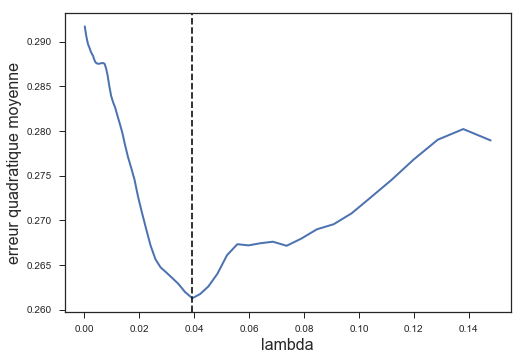
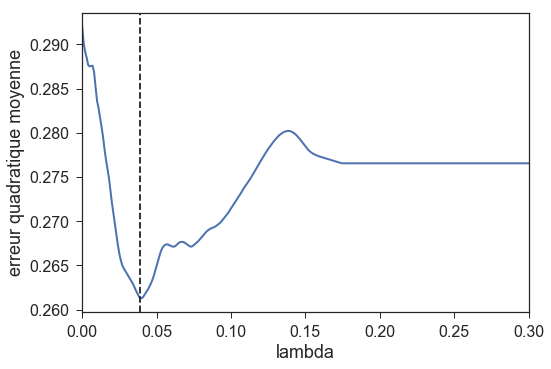
figures updated and proofreading completed

diff --git a/chapter_3.tex b/chapter_3.tex
@@ -11,7 +11,7 @@ et la durée du traitement).
 Afin de mieux identifier l'importance de ces facteurs sur l'efficacité du \gls{nfb}, une nouvelle approche a été implémentée : l'analyse systématique des biais 
 (\gls{saob} en anglais). Dans cette analyse, l'efficacité du traitement est considérée comme la variable dépendante expliquée par des variables indépendantes 
 qui sont ici les facteurs méthodologiques et techniques. Le but de cette analyse est donc de déterminer les paramètres qui ont une influence sur la performance du 
-\gls{nfb} afin de mieux les prendre en compte dans l'implémentation d'études cliniques évaluant l'efficacité. 
+\gls{nfb} afin de mieux les prendre en compte dans l'implémentation d'études cliniques évaluant l'efficacité de ce traitement. 
 \clearpage
 
 \section{Extraction et pré-traitement des facteurs}
@@ -41,7 +41,7 @@ Ces paramètres ne sont pas spécifiques de l'entrainenement par \gls{nfb} mais 
 En effet, \citet{Ros2019} appellent notamment à employer un groupe contrôle et à avoir recours à des évaluateurs aveugles afin d'améliorer la qualité des études.
 
 Le fait qu'une étude soit validée par un \gls{irb} rend compte de la qualité de l'implémentation méthodologique : les études qui en sont dépourvues sont
-condidérées d'une qualité moindre et donc plus sujettes aux divers biais d'implémentation.  
+condidérées comme étant d'une qualité moindre et donc plus sujettes aux divers biais d'implémentation.  
 \item \emph{la population :} 
     \begin{itemize}
     \item la prise de psychostimulants durant le traitement par \gls{nfb}, 
@@ -50,7 +50,7 @@ condidérées d'une qualité moindre et donc plus sujettes aux divers biais d'im
 		\item le degré d'engagement dans l'entrainement par \gls{nfb} (observance thérapeutique et ressenti vis à vis du traitement).
     \end{itemize}
 Certaines de ces caractéristiques ont déjà été indivividuellement étudiées, en particulier l'impact de la prise de psychostimulants durant l'entrainement par \gls{nfb} dans
-\citet{Cortese2016} et ses mises à jour (\citep{Bussalb2019clinical} et celle en \ref{selection_studies}) et également discutées par \citet{VanDoren2017}.
+\citet{Cortese2016} et ses mises à jour (\citep{Bussalb2019clinical} et celle présentée en \ref{selection_studies}) et également discutées par \citet{VanDoren2017}.
 \item \emph{l'implémentation du \gls{nfb} :} 
     \begin{itemize}
     \item le protocole utilisé (\gls{scp}, \gls{smr}, l'augmentation du rythme theta, l'augmentation du rythme beta dans les aires centrale ou frontale 
@@ -104,8 +104,9 @@ lequel est calculé le \textit{feedback} \citep{Enriquez2017, Rogala2016}.
 artefacts oculaires (\gls{eog}),
     \item le rejet en temps réel d'artefacts génériques détectés grâce à leur large amplitude. 
     \end{itemize}
-Le signal \gls{eeg} est l'élement central du \gls{nfb} et peut être très facilement contaminé par des artefacts \citep{Chavez2018}, ainsi l'effet de la correction ou du rejet 
-d'atefacts est à étudier. 
+Le signal \gls{eeg} est l'élement central du \gls{nfb} et peut être très facilement contaminé par des artefacts comme expliqué en \ref{steps_NFB_taining} \citep{Chavez2018}, 
+ainsi l'effet de la correction ou du rejet 
+d'artefacts est à étudier. 
 \end{itemize}
 
 Afin d'éviter tout biais d'analyse, le nom des facteurs a été caché durant toute l'analyse : il n'a été révélé qu'à la phase d'interprétation du modèle, lorsque ce dernier a été considéré 
@@ -116,7 +117,7 @@ comme valide notamment au niveau de la normalisation des variables et de la vali
 Les auteurs des études incluses dans la \gls{saob} ne précisent pas systématiquement toutes les valeurs des facteurs, ce qui conduit à des observations manquantes. 
 Afin que les paramètres pour lesquels peu d'observations sont disponibles ne faussent l'analyse, il est apparu raisonnable de considérer qu'au-delà de 20\%
 d'observations manquantes ce paramètre est exclu. Les observations manquantes dans les facteurs comportant des valeurs numériques sont 
-imputées et remplacées par -1 pour le \gls{dt} de régression et par la moyenne des valeurs du facteur pour la \gls{wls} et le \gls{lasso} décrits en \ref{saob_method}. 
+imputées et remplacées par -1 pour le \glsfirst{dt} de régression et par la moyenne des valeurs du facteur pour la \glsfirst{wls} et le \glsfirst{lasso}, méthodes décrites en \ref{saob_method}. 
 
 Par ailleurs, comme cette analyse tire avantage de l'hétérogénéité des études, si un facteur a plus de 80\% d'observations identiques, 
 celui-ci est également rejeté. 
@@ -144,7 +145,8 @@ d'avoir un impact sur l'efficacité du \gls{nfb} appliqué aux enfants \gls{tdah
 \subsection{Calcul de la taille d'effet intra-groupe} \label{es_within}
 
 L'efficacité du traitement est quantifiée par l'\gls{es}-intra-groupe. Celui-ci est calculé à partir des moyennes et écart-types des scores 
-cliniques totaux donnés par les parents et les enseignants (considérés comme \gls{pblind} \citep{Sonuga-Barke2013, Micoulaud2014, Cortese2016}). De plus, 
+cliniques totaux donnés par les parents et les enseignants (considérés comme \gls{pblind} \citep{Sonuga-Barke2013, Micoulaud2014, Cortese2016}) aux enfants inclus dans 
+l'étude à pré et à post-test. De plus, 
 lorsqu'une étude fournit des résultats pour plus d'une échelle clinique, l'\gls{es}-intra-groupe est calculé pour chaque échelle :
 \begin{equation}
 \label{eq:factors_effect_size_within_subject}
@@ -189,15 +191,15 @@ d'avoir recours à plus de méthodes mais étant donné l'aspect novateur de cet
 \subsubsection{La régression linéaire multiple et pondérée} \label{wls_part}
 La régression linéaire a pour but d'estimer les coefficients de régression qui lient linéairement les facteurs aux \gls{es}-intra-groupe \citep{Montgomery2012}. Ici, nous préférerons 
 utiliser une régression linéaire pondérée (en anglais, \glsfirst{wls}) afin d'être sensible au fait que toutes les études ne contribuent pas de la même manière. 
-En effet, cela permet de prendre en compte que, d'une part, pour certaines études, plusieurs échelles cliniques sont disponibles, et d'autre part, les études ont des 
-tailles d'échantillon très différente
+En effet, cela permet de prendre en compte que, d'une part, pour certaines études, plusieurs échelles cliniques sont disponibles, et que, d'autre part, les études ont des 
+tailles d'échantillon très différentes.
 
 Les coefficients $\hat{\beta}_{j}$, $0 \leq j \leq p$, sont obtenus en minimisant la somme pondérée des erreurs quadratiques :
 \begin{equation}
 \label{eq:factors_wls-minimization}
 \hat{\beta} = \argmin_\beta \sum_{i=1}^{n} w_{i} \Big(y_i - \beta_0 - \sum_{j=1}^{p}\beta_{j}x_{ij}\Big)^2,
 \end{equation} 
-avec $x_{ij}$ la valeur de l'observation $i$, $1 \leq i \leq n$ sur la variable indépendante $j$, $1 \leq j \leq p$,
+avec $x_{ij}$ la valeur de l'observation $i$, $1 \leq i \leq n$ sur la variable indépendante $j$, $1 \leq j \leq p$, $\beta_0$ l'ordonnée à l'origine (l'\textit{intercept} en anglais), 
 $\beta_j$ est un coefficient de régression et $y_i$ la variable dépendante.
 Le poids $w_{i}$ associé à chaque observation $i$ est défini comme suit : 
 \begin{equation}
@@ -223,7 +225,7 @@ Sous forme matricielle, la \gls{wls} se traduit ainsi :
 \label{eq:factors_model_WLS}
 \textbf{W}y = \textbf{WX}\beta + \epsilon.
 \end{equation}
-$\textbf{X}$ est une matrice inversible $(n \times q)$ et représente $n$ observations sur chaque $p$ variable indépendante et l'ordonnée à l'origine (l'\textit{intercept} en anglais) 
+$\textbf{X}$ est une matrice inversible $(n \times q)$ et représente $n$ observations sur chaque $p$ variable indépendante et l'\textit{intercept}  
 ($q = p + 1$), 
 $\beta$ est un vecteur $(q \times 1)$ des coefficients de régression associés et l'\textit{intercept}, $\textbf{W}$ est une matrice diagonale $(n \times n)$  
 des poids $w_{i}$, $y$ est un vecteur $(n \times 1)$ des variables dépendantes et $\epsilon$ est un vecteur $(n \times 1)$ d'erreurs.
@@ -304,7 +306,7 @@ $g_{2}$ la variable aléatoire de l'excès de Kurtosis, et $Z_{1}$ et $Z_{2}$ de
 les distributions de $g_{1}$ et $g_{2}$ normales.
 
 Si toutes ces hypothèses sont satisfaites, alors les résultats de la \gls{wls} peuvent être interprétés. A l'aide d'un t-test, on détermine  
-parmi les coefficients $\beta_{j}$ où $1<j<p$, ceux qui sont significativement différents de 0 (avec un seuil de signifiance de 5\%) : 
+parmi les coefficients $\beta_{j}$ où $0 \leq j \leq p$, ceux qui sont significativement différents de 0 (avec un seuil de signifiance de 5\%) : 
 pour ces coefficients, le facteur qui leur est associé est supposé avoir une influence sur l'efficacité du \gls{nfb}. Par ailleurs, 
 le signe du coefficient indique si cette influence est positive ou négative. 
 
@@ -327,12 +329,12 @@ Une régression linéaire ordinaire (\gls{ols} en anglais) est aussi mise en pla
 
 \subsubsection{La régression linéaire avec régularisation parcimonieuse $\ell_1$}
 
-La deuxième méthode appliquée lors de la \gls{saob} est le \gls{lasso} qui intègre la sélection de variables dans le modèle linéaire grâce 
-grâce à un a priori de parcimonie des variables/coefficients, obtenue via une régularisation par la norme $\ell_1$ \citep{Tibshirani1996}.
+La deuxième méthode appliquée lors de la \gls{saob} est le \glsfirst{lasso} qui intègre la sélection de variables dans le modèle linéaire grâce 
+à un a priori de parcimonie des variables/coefficients, obtenue via une régularisation par la norme $\ell_1$ \citep{Tibshirani1996}.
 
 La régression régularisée par la norme $\ell_1$ est préférable ici à la régression \textit{Ridge} \citep{James2013} régularisée par 
 la norme $\ell_2$ (aussi appelée régularisation de Tikhonov) : en effet, la norme $\ell_2$ donne des coefficients lissés, alors que la norme $\ell_1$ donne des coefficients parcimonieux 
-(ie, les coefficients utiles sont sélectionnés alors que les autres sont mis à 0). 
+(i.e., les coefficients utiles sont sélectionnés alors que les autres sont mis à 0). 
 
 Les coefficients $\hat{\beta}_{j}$, $0 \leq j \leq p$ sont obtenus en minimisant le coût :
 \begin{equation}
@@ -373,7 +375,7 @@ le signe du coefficient indique la direction de l'effet.
 
 \subsubsection{L'arbre de décision de régression}
 
-La troisième et dernière méthode utilisée est le \gls{dt} de régression qui, à l'inverse des deux précédentes méthodes, n'est pas une méthode 
+La troisième et dernière méthode utilisée est le \glsfirst{dt} de régression qui, à l'inverse des deux précédentes méthodes, n'est pas une méthode 
 linéaire \citep{Quinlan1986}. Elle divise l'ensemble des observations en sous-ensembles de plus en plus petits en se basant sur la présence 
 d'une variable qualitative ou sur la comparaison à un seuil appliqué à une variable quantitative. La position de la variable indépendante utilisée (et le
 choix du seuil de comparaison dans le cas d'une variable quantitative) pour subdiviser l'ensemble des données est déterminée de façon à minimiser la
@@ -382,7 +384,7 @@ choix du seuil de comparaison dans le cas d'une variable quantitative) pour subd
 La première variable utilisée pour diviser l'ensemble des données se situe dans le noeud racine (\textit{root node} en anglais), les autres
 variables qui mènent à une nouvelle subdivision sont dans des noeuds, et les noeuds où la division s'arrête sont appelés
 feuilles (\textit{leaf nodes}) de l'arbre. La profondeur de l'arbre peut être définie par le nombre d'observations minimal nécessaire
-pour diviser un sous-ensemble. Ce critère a été utilisé ici de façon arbitraire : un noeud comportant moins de 10\% d'observations devient une feuille. 
+pour diviser un sous-ensemble ou dans une feuille. Ce critère a été utilisé ici de façon arbitraire : une feuille doit comporter au moins 10\% d'observations. 
 Un arbre exemple est schématisé à la Figure~\ref{Figure:factors_decision_tree_example}.
 
 \begin{figure}[h!]
@@ -444,7 +446,7 @@ Au final $k = 41$ études ont été retenues, qui correspondent par ailleurs au 
 \begin{figure}[h!]
   \centering
 	\includegraphics[width=1\linewidth]{figures/chapter-3/factors-selection-studies} 
-  \caption{Diagramme de sélection des études pour l'analyse systématique des biais (dernière recherche le 2 septembre 2020).} 
+  \caption{Diagramme de sélection des études pour l'analyse systématique des biais (dernière recherche le 2 septembre 2019).} 
   \label{Figure:factors_pipeline_selection_studies}
 \end{figure}
 
@@ -462,8 +464,8 @@ Figure~\ref{Figure:distribution_ES_within}. Les \gls{es}-intra-groupe négatifs 
   \label{Figure:distribution_ES_within}
 \end{figure}
 
-Sur la base de notre critère d'exclusion défini en \ref{preprocessing}, $i = 3$ observations (3.40\%) issues de deux études (4.87\%) sont rejetées : deux groupes de sujets de 
-\citet{Bazanova2018} (celui de l'individualisation du \gls{nfb} et 
+Sur la base de notre critère d'exclusion défini en \ref{preprocessing}, $i = 3$ observations (3.40\% du nombre total d'observations) issues de deux études (4.87\% du nombre total d'études) 
+sont rejetées : deux groupes de sujets de \citet{Bazanova2018} (celui de l'individualisation du \gls{nfb} et 
 celui de l'individualisation du \gls{nfb} et du couplage avec \gls{emg}-Biofeedback) et les résultats obtenus avec les évaluations des 
 parents de \citet{Rajabi2019}. 
 
@@ -492,11 +494,11 @@ qui sont listées dans la Table~\ref{Table:table_factors_analysis_meta_analysis_
 \subsection{Facteurs identifiés méthode par méthode}
 
 Vingt-huit paramètres ont été initialement identifiés afin d'analyser leur influence sur l'efficacité du \gls{nfb}. Parmi eux, dix ont dû être exclus car ils étaient trop
-homogènes ou présentaient trop d'observations manquantes : 
+homogènes ou présentaient trop d'observations manquantes sur la base des critères présentés en \ref{preprocessing} : 
 \begin{itemize}
 	\item le protocole visant l'augmentation du rythme beta dans les aires frontales,
 	\item la présence d'un \gls{irb},
-  \item l'utilisation d'une carte pour le transfert de l'entrainement à la maison et à l'école, 
+  \item l'utilisation d'une carte pour le transfert de ce qui a été appris durant l'entrainement à la maison et à l'école, 
   \item le type de seuillage pour les récompenses discrètes (incrémental ou fixe),
   \item la qualité de l'acquisition de l'\gls{eeg} égale à 3,
 	\item la présence d'un groupe contrôle,
@@ -553,7 +555,7 @@ un facteur dont le coefficient est négatif aurait une influence positive sur le
 La validation croisée \textit{leave-one-out} illustrée à la Figure~\ref{Figure:selection_lambda_lasso} a permis de déterminer un $\lambda$ optimal égal à 0.039.
 \begin{figure}[h!]
   \centering
-	\includegraphics[width=0.5\linewidth]{figures/chapter-3/factors-selection-lasso-best-lambda} 
+	\includegraphics[width=0.7\linewidth]{figures/chapter-3/factors-selection-lasso-best-lambda} 
   \caption{Erreur quadratique moyenne (\gls{mse}) obtenue sur la moyenne de tous les \textit{folds} utilisés lors de la validation 
 	croisée \textit{leave-one-out}. La courbe bleue représente la \gls{mse} moyennée sur tous les \textit{folds} ; la droite verticale en pointillés correspond
 	au minimum de la \gls{mse} moyenne.}
@@ -618,7 +620,7 @@ multivariée pour associer les facteurs aux résultats cliniques.
 Toutefois, cette méthode souffre de quelques limitations, comme 
 l'utilisation de seulement trois méthodes et le choix de critères arbitraires pour exclure des facteurs et des observations. Par ailleurs, le fait que pour une étude il peut y 
 avoir plusieurs observations n'est capturé que par la \gls{wls}. Ensuite, la \gls{saob} ne permet pas de donner de chiffres précis quant à la durée du traitement ou au 
-nombre de sessions par exemple : elle permet seulement de conseiller une direction mais sans qauntification.
+nombre de sessions par exemple : elle permet seulement de conseiller une direction mais sans quantification.
 
 La rigueur et la transparence lors de la conduite d'essais cliniques sur l'efficacité
 du \gls{nfb} est essentielle pour comprendre son effet sur les fonctions cérébrales et le comportement comme le soulignent \citet{Ros2019} lors de l'élaboration
@@ -647,7 +649,7 @@ plus de sessions serait favorable.
 ce qui a été confirmé par \citet{Arns2014, Arns2009, Wang2014}. 
 \citet{Wang2014} a montré sur des enfants sains une amélioration significative de la mémoire de travail suite à 20 sessions d'entrainement cognitif.
 Quant à \citet{Arns2009}, plusieurs régressions linéaires sans correction pour tests multiples ont montré une
-corrélation entre le nombre de sessions et les \gls{es}-intra-groupes pour la composante inattention seulement. 
+corrélation positive entre le nombre de sessions et les \gls{es}-intra-groupe pour la composante inattention seulement. 
 
 Le fait que le nombre de sessions n'a pas été identifié par la \gls{wls}
 pourrait s'expliquer par la présence de seulement neuf observations de 20 sessions ou moins (ce qui correspond à 7.65\% du nombre total d'observations). 
@@ -720,21 +722,21 @@ métriques dont certaines ont été utilisées par \citep{Bussalb2018benchmark} 
 
 Deux méthodes s'accordent également sur le fait que corriger ou rejeter les artefacts oculaires aurait un impact positif sur l'efficacité du \gls{nfb}. Ce résultat peut également
 s'expliquer par le fait qu'un signal \gls{eeg} non contaminé par des artefacts permet d'extraire plus précisément les neuromarqueurs \citep{Barthelemy2017, Barthelemy2019} étant donné l'impact
-des mouvements oculaires et clignements sur l'\gls{eeg} \citep{Iwasaki2005}. 
+des mouvements oculaires et clignements sur l'\gls{eeg} souligné en \ref{steps_NFB_taining} \citep{Iwasaki2005}. 
 
 \subsection{Perspectives pour de futures analyses}
 
 L'influence d'autres facteurs sur l'efficacité du \gls{nfb} aurait été intéressante à analyser, comme la personnalisation des 
 protocoles d'entrainement basée sur l'\gls{iapf}. En effet, \citet{Vernon2004} et \citet{Klimesch1999} ont noté que les limites des bandes 
 de fréquence varient d'un individu à l'autre et sont aussi dépendantes de l'âge. Par ailleurs, les résultats paraissent prometteurs selon 
-\citet{Bazanova2018, Escolano2014} et \citet{Alkoby2017}. Cependant, ce paramètre n'a pas pu être incluse dans la \gls{saob} faute d'un 
+\citet{Bazanova2018, Escolano2014} et \citet{Alkoby2017}. Cependant, ce paramètre n'a pas pu être inclus dans la \gls{saob} faute d'un 
 nombre suffisant d'études proposant un protocole personnalisé. Ce manque d'études est aussi la raison pour laquelle le couplage entre l'\gls{emg}-Biofeedback 
 et le \gls{nfb} n'a pas pu être étudié dans la \gls{saob}. 
 
 Un autre facteur intéressant, qui aurait pu aider à expliquer les résultats sur la durée du traitement, a 
 également été exclu de l'analyse : la sévérité des symptômes à pré-test. Bien que les scores à pré-test soient disponibles pour chaque étude, ils ne sont pas
 comparables car différentes échelles sont utilisées. Afin de résoudre ce problème, ces scores ont été normalisés grâce au score maximum pouvant être atteint
-sur chaque échelle. Toutefois, cette valeur n'a pas pu être trouvée pour plusieurs échelles cliniques : trop d'observations manquantes ont mené au rejet de facteur.
+sur chaque échelle. Toutefois, cette valeur n'a pas pu être trouvée pour plusieurs échelles cliniques : trop d'observations manquantes ont mené au rejet du facteur.
 
 Ensuite, il serait intéressant de s'intéresser au lieu où les sessions de \gls{nfb} sont effectuées. En effet, \citet{Minder2018} ont souligné le fait que le lieu
 d'entrainement pourrait aussi être un facteur contribuant à l'efficacité du \gls{nfb}. Toutefois, dans leur étude aucune différence significative 
@@ -759,8 +761,8 @@ Selon \citet{Arns2014}, le seuillage automatique est contraire aux prinicipes de
 pas le sujet sur ses réelles performances d'auto-régulation. Cependant, adapter manuellement la valeur du seuil contraint le sujet à effectuer ses sessions en 
 clinique et empêche la mise en place d'un double aveugle \citep{Lansbergen2011} qui est pourtant recommandé \citep{Ros2019}. 
 
-Enfin, l'influence du type de \textit{feedback} (visuel, auditif, tactile) n'a pas été étudiée ici mais a déjà été discutée dans la littérature, nptamment par \citet{Vernon2004} qui a avancé que 
-coupler le retour visuel et auditif serait préférable. 
+Enfin, l'influence du type de \textit{feedback} (visuel, auditif, tactile) n'a pas été étudiée ici mais a déjà été discutée dans la littérature, 
+notamment par \citet{Vernon2004} qui a avancé que coupler le retour visuel et auditif serait préférable. 
 
 \subsection{Analyse approfondie des évaluateurs probablement aveugles} \label{pblind_anaysis}
 
@@ -802,7 +804,7 @@ Une autre façon de mettre en évidence un éventuel effet placebo est de se rap
 \textit{root node} divise l'ensemble des données en deux parties : d'une part un sous arbre est créé avec 46 observations correspondant aux évaluateurs
 \gls{mprox} et d'autre part, 21 observations correspondant aux évaluateurs \gls{pblind}. Si les différences observées entre ces deux types d'évaluateurs est due à l'effet
 placebo, il serait attendu que le sous-arbre des observations \gls{mprox} comporte des facteurs liés à la perception de l'implication dans le traitement. En effet, dans cette
-partie de l'arbre on trouve bien le facteur "`durée du traitement", mais qui ne va pas dans la direction corroborant l'effet placebo : intuitivement, 
+partie de l'arbre on trouve bien le facteur "durée du traitement", mais qui ne va pas dans la direction corroborant l'effet placebo : intuitivement, 
 il est attendu que plus le traitement est long, plus l'effet placebo est important et plus l'\gls{es}-intra-groupe est élevé, or ici l'inverse est observé ce qui
 contredit l'hypothèse. 
 
@@ -817,7 +819,7 @@ des symptômes, on pourrait conclure que l'effet placebo joue un rôle dans ces 
 
 \subsection{Comparaison avec les résultats de Bussalb et al., 2019b}
 
-L'analyse présentée dans ce chapitre est la mise à jour des résultats présentés dans \citet{Bussalb2019clinical}. Etant donné qu'un nombre encore limité d'études
+L'analyse présentée dans ce chapitre est la mise à jour des résultats de \citet{Bussalb2019clinical}. Etant donné qu'un nombre encore limité d'études
 d'efficacité est disponible sur le \gls{nfb} appliqué aux enfants \gls{tdah}, les analyses telles que les méta-analyses et la \gls{saob} doivent être régulièrement mises
 à jour afin d'obtenir des résultats stables comme discuté en \ref{meta_analysis_update}.
 
@@ -825,7 +827,7 @@ d'efficacité est disponible sur le \gls{nfb} appliqué aux enfants \gls{tdah}, 
 \citet{Bussalb2019clinical} présente des résultats obtenus sur des études publiées avant le 12 février 2018, ce qui correspond à 33 études (67 observations). La mise 
 à jour décrite dans ce chapitre porte ce nombre à 41, augmentant ainsi la robustesse des
 résultats. Malheureusement, tous les facteurs exclus dans l'analyse antérieure le sont également avec cette mise à jour et la validation par
-un \gls{irb} est également rejetée.
+un \gls{irb} est en plus rejetée.
 
 Les différences entre \citet{Bussalb2019clinical} et sa mise à jour présentée dans ce chapitre sont mises en évidence à la 
 Table~\ref{Table:table_factors_analysis_results_summary_update}.
@@ -856,7 +858,7 @@ davantage d'informations.
 A l'inverse la présence d'une phase de transfert est désormais sélectionnée par les trois méthodes.
 
 \subsubsection{Etude de l'évolution du nombre de méthodes sélectionnant un facteur entre les résultats de \citet{Bussalb2019clinical} et ceux de sa mise à jour} \label{evolution_methods}
-Afin de mettre évidence la fluctuation des résultats, la même approche que celle décrite en \ref{chapitre-2} est suivie ici : l'évolution du nombre de méthodes de régression pour 
+Afin de mettre évidence la fluctuation des résultats, la même approche que celle décrite en \ref{meta_analysis_update} est suivie ici : l'évolution du nombre de méthodes de régression pour 
 lesquelles un facteur est sélectionnné au fur et à mesure de l'ajout,
 selon leur année de publication, des nouvelles études mettant à jour \citet{Bussalb2019clinical} est étudiée. 
 
@@ -880,7 +882,7 @@ discuté en \ref{discussion_factors}.
 
 Afin de mettre en évidence le nombre croissant d'observations avec l'ajout de nouvelles études dans la \gls{saob}, le nombre d'observations 
 incluses dans chaque nouvelle étude ajoutée (NO) ainsi que le nombre cumulatif d'observations (NOC) sont donnés sur les axes des abscisses supérieurs.
-Ils sont obtenus de la façon suivante : $\text{NOC}(n) = \text{NOC}(n - 1) + \text{NS}(n)$, avec n, allant de 1 à N, l'indice de l'étude incluse.
+Ils sont obtenus de la façon suivante : $\text{NOC}(n) = \text{NOC}(n - 1) + \text{NO}(n)$, avec $n$, allant de 1 à N, l'indice de l'étude incluse.
 
 \begin{figure}[h!]
   \centering
@@ -899,12 +901,12 @@ ce résultat semble s'être stabilisé. Par contre, le nombre de méthodes ident
 compliqué de conclure quant à l'influence de ces facteurs sur l'efficacité du \gls{nfb} appliqué aux enfants \gls{tdah}. Les résultats concernant le protocole \gls{smr} varient
 également et de manière plus importante, en passant d'aucune méthode à deux méthodes puis en retombant à zéro méthode.
 
-Ces résultats montrent donc que certains résultats ne sont pas figés : ils vont fluctuer jusqu'à se stabiliser quand un grand nombre d'observations sera disponible. 
+Ces courbes montrent donc que certains résultats ne sont pas figés : ils vont fluctuer jusqu'à se stabiliser quand un grand nombre d'observations sera disponible. 
 
 Ainsi, pour que la \gls{saob} puisse apporter des indications fiables quant au design d'une étude évaluant l'efficacité du \gls{nfb} appliqué aux enfants \gls{tdah}, elle doit être 
 régulièrement mise à jour. 
 
-\section{Conclusion}
+\section{Conclusion} \label{conclusion_saob}
 
 La \gls{saob} a permis de mettre en évidence que l'intensité du traitement contribue à l'efficacité du \gls{nfb}, ce qui va dans le sens de ce qui est connu à propos de 
 la théorie de l'apprentissage \citep{Mowrer1960} : un entrainement plus intense mène à une efficacité clinique augmentée. 
@@ -918,16 +920,17 @@ son impact lors de futures analyses.
 Alors que les trois facteurs précédents sont en faveur de l'efficacité du \gls{nfb}, l'influence négative de la présence d'une phase de transfert sur laquelle sont d'accord les trois méthodes, 
 démontre plutôt un effet placebo. 
 
-Alors que ces résultats contribuent certainement au débat, ce travail montre également que l'ultime démonstration de la preuve de l'efficacité du \gls{nfb}
+Bien que ces résultats contribuent certainement au débat, ce travail montre également que l'ultime démonstration de la preuve de l'efficacité du \gls{nfb}
 appliqué aux enfants \gls{tdah} n'est pas encore atteinte, étant donné que les évaluations des enseignants ont été en partie invalidées comme indicatrices de 
 l'effet placebo. Par conséquent, se référer aux résultats des évaluateurs \gls{pblind} pour mettre en évidence la spécificité de l'efficacité clinique n'est pas 
-recommandé : il serait préférable d'avoir recours au sham-\gls{nfb} et à l'analyse des changements de l'\gls{eeg} en fonction des neuromarqueurs entrainés.
+recommandé : il serait préférable d'avoir recours au \textit{sham}-\gls{nfb} et à l'analyse des changements de l'\gls{eeg} en fonction des neuromarqueurs entrainés.
 
 Comme l'a montré la mise à jour des résultats de la \gls{saob}, les conclusions de cette analyse peuvent encore évoluer. Pour qu'elles se stabilisent, 
 davantage d'observations sont nécessaires : une façon de résoudre ce problème serait d'inclure dans la \gls{saob} tous les articles sur l'efficacité du 
 \gls{nfb} sans tenir compte de son application. Une telle \gls{saob} n'aurait pas pour but de déterminer les facteurs ayant une influence sur 
 l'efficacité du \gls{nfb} sur les enfants \gls{tdah} comme c'est le cas dans ce chapitre, mais ceux ayant une influence en général sur 
-l'efficacité du \gls{nfb}, quelle que soit son application. 
+l'efficacité du \gls{nfb}, quelle que soit son application. Toutefois, les résultats de l'analyse menée ici donne tout de même des pistes pour améliorer 
+la performance du \gls{nfb} appliqué aux enfants \gls{tdah}. 
 
 Au vu du nombre important d'études publiées sur le \gls{nfb} appliqué aux enfants \gls{tdah}, certains facteurs vont pouvoir finir par être inclus dans la \gls{saob}, comme par exemple 
 l'individualisation du protocole de \gls{nfb} qui semble prometteuse. Le chapitre suivant va justement s'intéresser à la distribution d'un marqueur de l'attention, 

diff --git a/glossaries.tex b/glossaries.tex
@@ -6,6 +6,7 @@
 \newacronym{et}{ET}{Erreur Type}
 \newacronym{est}{EST}{\textit{Effect Size} Total}
 \newacronym{saob}{SAOB}{\textit{Systematic Analysis of Biases}}
+\newacronym{eegi}{EEG}{électroencéphalogrique}
 \newacronym{eeg}{EEG}{électroencéphalogramme}
 \newacronym{irb}{IRB}{\textit{Institutional Review Board}}
 \newacronym{scp}{SCP}{\textit{Slow Cortical Potentials}}
@@ -56,3 +57,7 @@
 \newacronym{nirs}{NIRS}{\textit{Near-Infrared Spectroscopy}}
 \newacronym{ecog}{ECoG}{Electrocorticographie}
 \newacronym{em}{EM}{Expectation Maximization}
+\newacronym{dsm}{DSM}{\textit{Diagnostic and Statistical Manual of Mental Disorders}}
+\newacronym{gbss}{gBSS}{\textit{Group Blind Source Separation}}
+\newacronym{aic}{AIC}{\textit{Akaike information criteria}}
+\newacronym{fda}{FDA}{\textit{Food and Drug Administration}}
